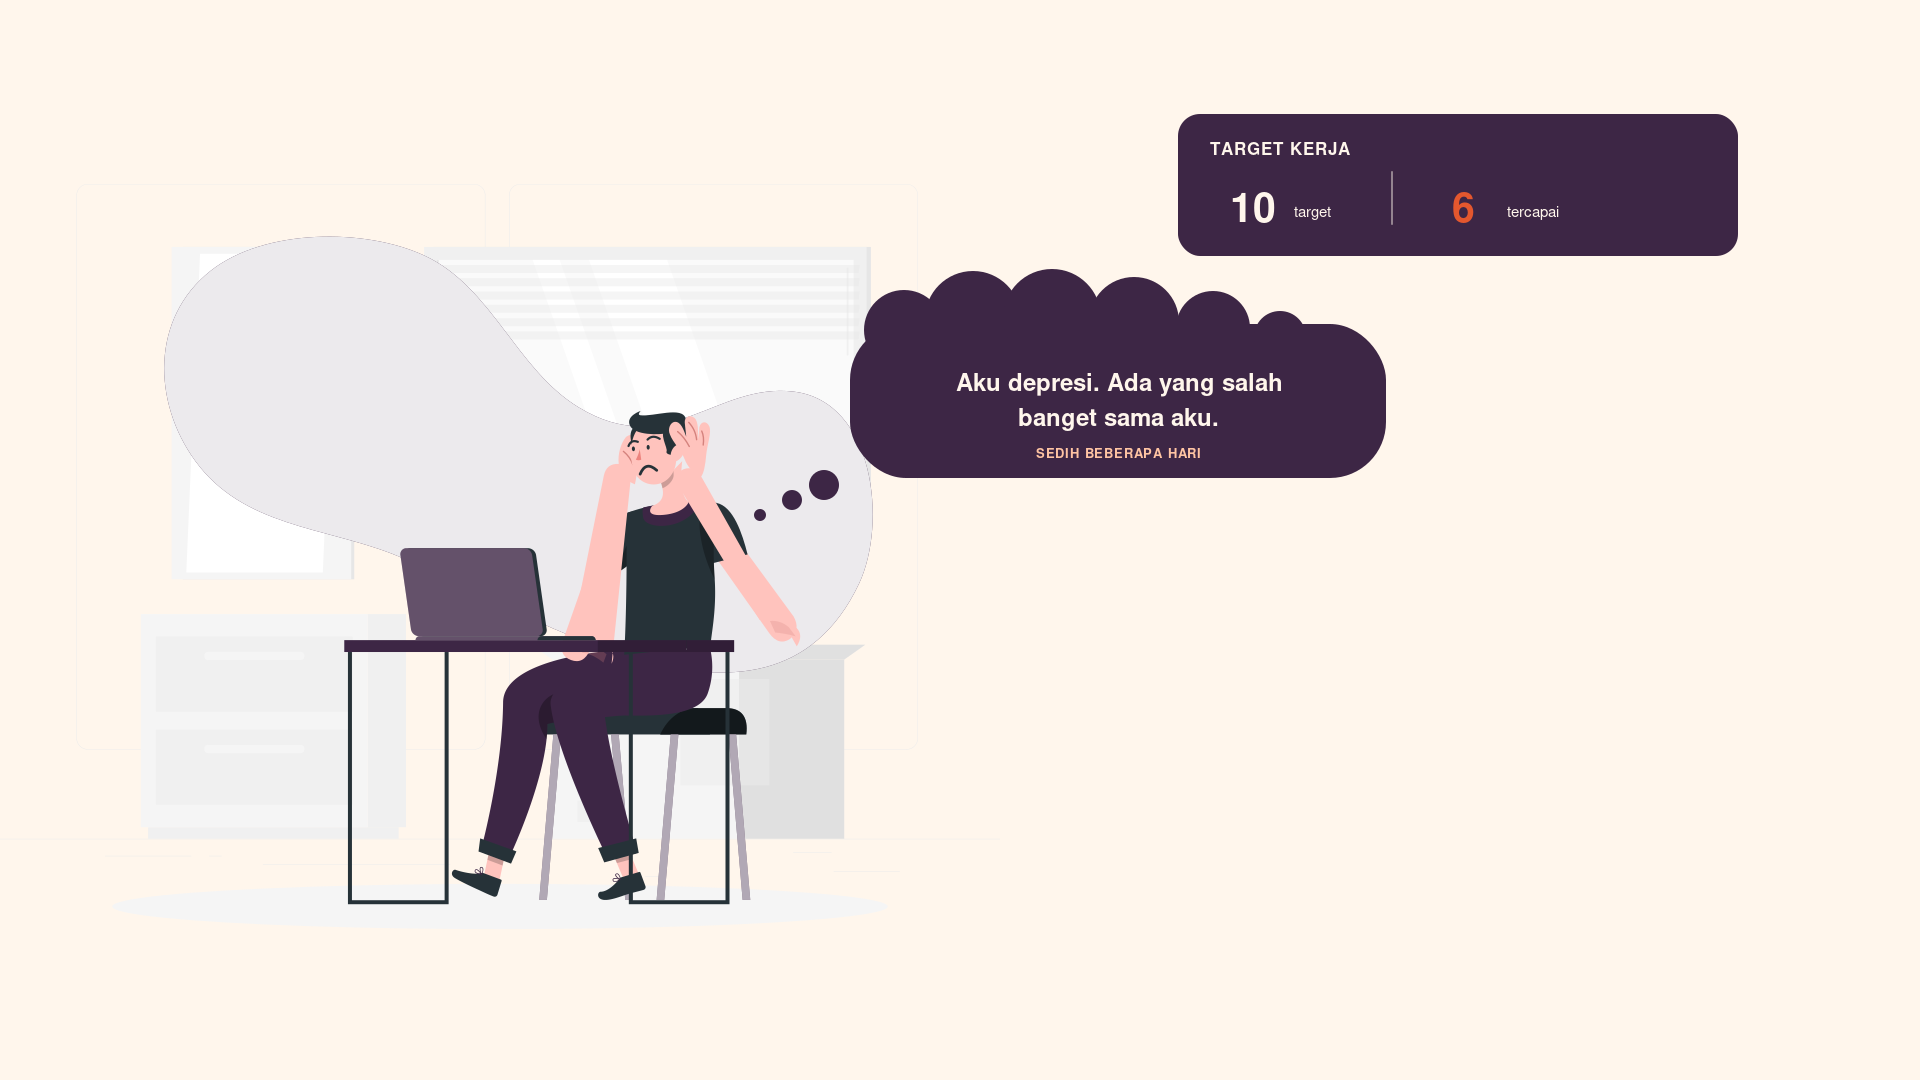
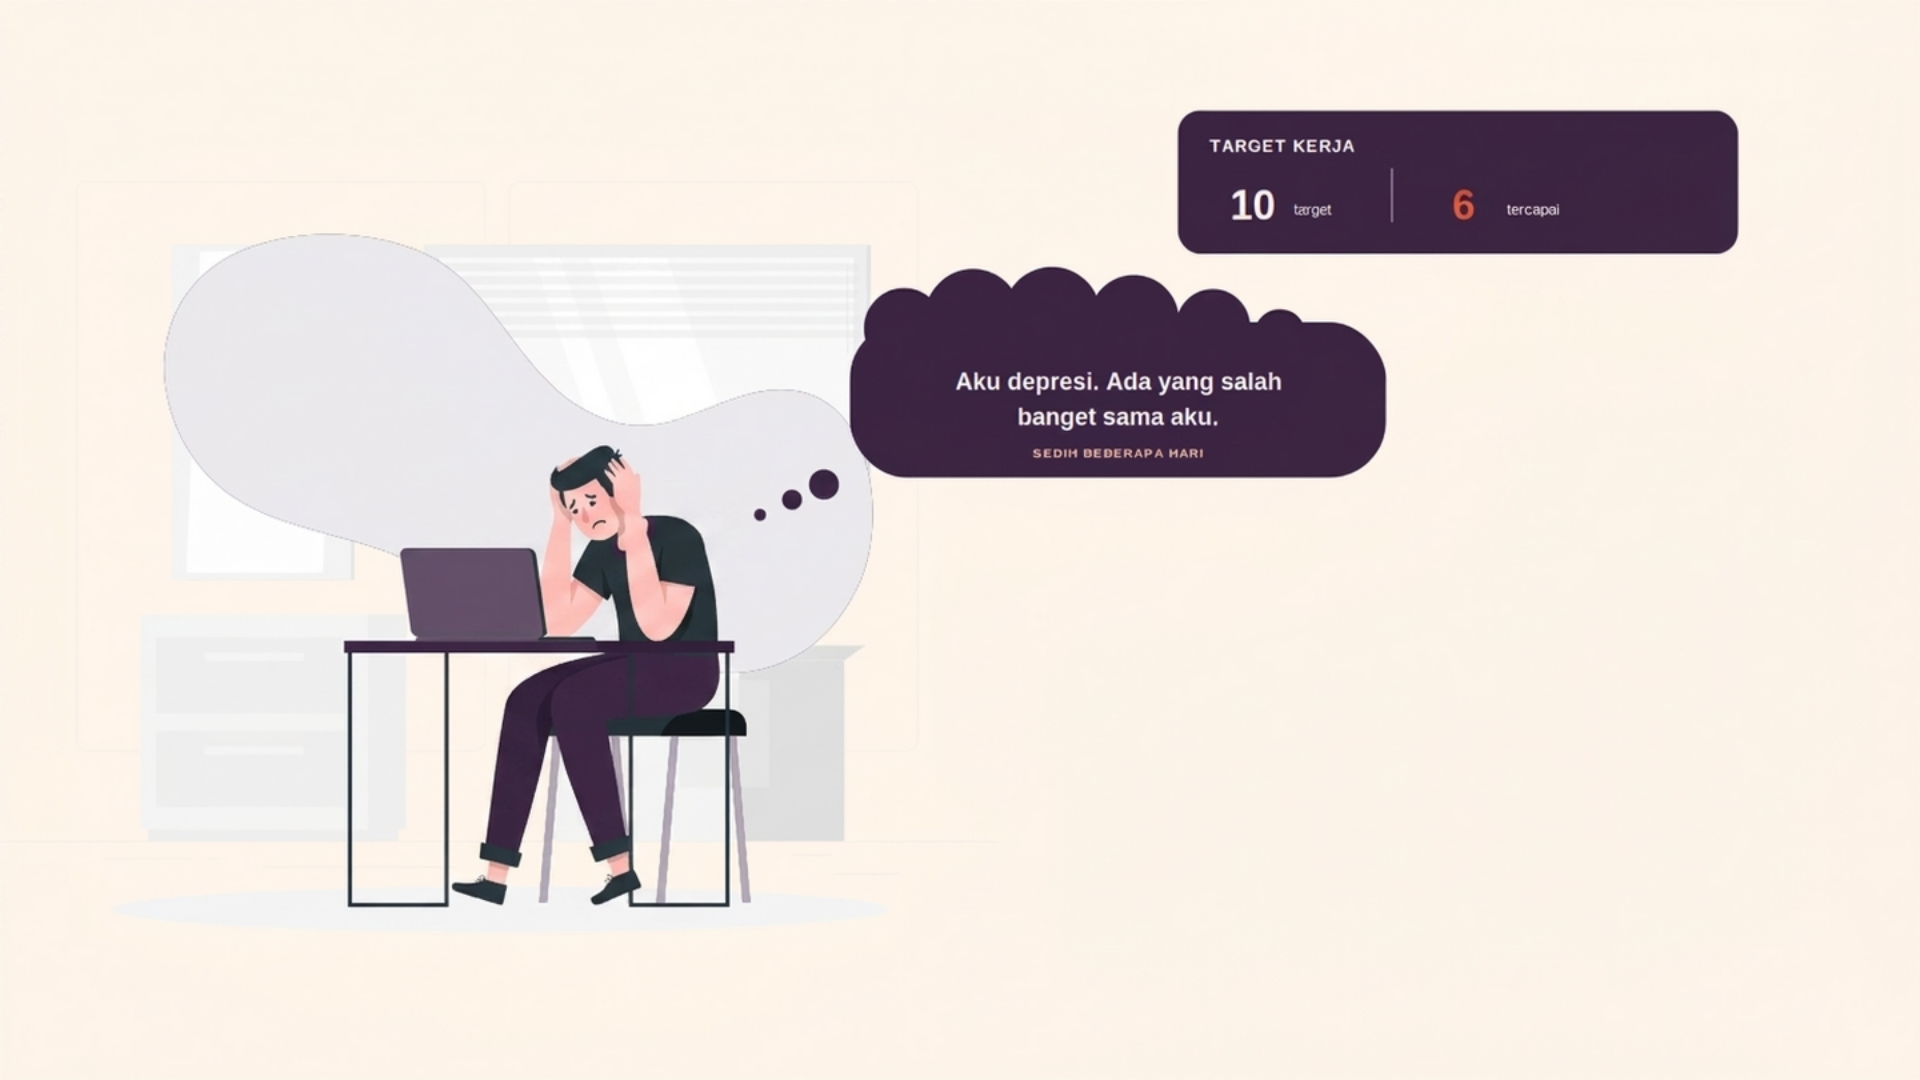
Restore original Agy Scene 4A pose

diff --git a/storyboard/index.html b/storyboard/index.html
@@ -37,7 +37,7 @@
         </article>
 <article class="board-row">
           <header class="row-meta"><span class="scene-number">04</span><span class="time">01:55–02:35</span><h2>Why Does It Matter?</h2><p>Satu cerita sebab-akibat Raka dan Dina bergerak dalam lima beat: Raka salah memahami emosinya → konflik saat rapat → ia menyimpulkan Dina narsistik tanpa bukti → sebuah post menyebarkan stigma dan Raka mengeluarkan Dina dari grup → Dina sendirian tanpa Raka, ditutup teks layar.</p></header>
-          <div class="row-frame"><div class="case-frame-grid"><section class="frame-card"><div class="frame-label"><b>4A · Raka Mislabels His Own Sadness</b><span>01:55–02:07 · 12s</span></div><a href="scenes/scene-4a-self-misunderstanding.svg" target="_blank" aria-label="Open editable SVG for 4A"><img src="scenes/scene-4a-self-misunderstanding.svg" alt="Raka Mislabels His Own Sadness animation frame"></a><div class="file-links"><a href="scenes/scene-4a-self-misunderstanding.svg" download>Download editable SVG</a><a href="previews/scene-4a-self-misunderstanding.png" download>Download PNG preview</a><a href="previews/scene-4a-agy-vs-svg.png" target="_blank" rel="noreferrer">Compare pose reference &amp; rig</a></div></section><section class="frame-card"><div class="frame-label"><b>4B · Misjudgment Becomes Conflict</b><span>02:07–02:12 · 5s</span></div><a href="scenes/scene-4b-conflict-in-the-meeting.svg" target="_blank" aria-label="Open editable SVG for 4B"><img src="scenes/scene-4b-conflict-in-the-meeting.svg" alt="Misjudgment Becomes Conflict animation frame"></a><div class="file-links"><a href="scenes/scene-4b-conflict-in-the-meeting.svg" download>Download editable SVG</a><a href="previews/scene-4b-conflict-in-the-meeting.png" download>Download PNG preview</a></div></section><section class="frame-card"><div class="frame-label"><b>4B2 · One Disagreement Becomes a Label</b><span>02:12–02:17 · 5s</span></div><a href="scenes/scene-4b2-narcissistic-label.svg" target="_blank" aria-label="Open editable SVG for 4B2"><img src="scenes/scene-4b2-narcissistic-label.svg" alt="One Disagreement Becomes a Label animation frame"></a><div class="file-links"><a href="scenes/scene-4b2-narcissistic-label.svg" download>Download editable SVG</a><a href="previews/scene-4b2-narcissistic-label.png" download>Download PNG preview</a></div></section><section class="frame-card"><div class="frame-label"><b>4C · Stigma Spreads Through the Group</b><span>02:17–02:27 · 10s</span></div><a href="scenes/scene-4c-stigma-and-removal.svg" target="_blank" aria-label="Open editable SVG for 4C"><img src="scenes/scene-4c-stigma-and-removal.svg" alt="Stigma Spreads Through the Group animation frame"></a><div class="file-links"><a href="scenes/scene-4c-stigma-and-removal.svg" download>Download editable SVG</a><a href="previews/scene-4c-stigma-and-removal.png" download>Download PNG preview</a></div></section><section class="frame-card"><div class="frame-label"><b>4D · Dina Alone · Closing On-Screen Text</b><span>02:27–02:35 · 8s</span></div><a href="scenes/scene-4d-dina-alone-closing-text.svg" target="_blank" aria-label="Open editable SVG for 4D"><img src="scenes/scene-4d-dina-alone-closing-text.svg" alt="Dina Alone · Closing On-Screen Text animation frame"></a><div class="file-links"><a href="scenes/scene-4d-dina-alone-closing-text.svg" download>Download editable SVG</a><a href="previews/scene-4d-dina-alone-closing-text.png" download>Download PNG preview</a></div></section></div></div>
+          <div class="row-frame"><div class="case-frame-grid"><section class="frame-card"><div class="frame-label"><b>4A · Raka Mislabels His Own Sadness</b><span>01:55–02:07 · 12s</span></div><a href="scenes/scene-4a-self-misunderstanding.svg" target="_blank" aria-label="Open editable SVG for 4A"><img src="scenes/scene-4a-self-misunderstanding.svg" alt="Raka Mislabels His Own Sadness animation frame"></a><div class="file-links"><a href="scenes/scene-4a-self-misunderstanding.svg" download>Download editable SVG</a><a href="previews/scene-4a-self-misunderstanding.png" download>Download PNG preview</a><a href="previews/scene-4a-agy-pose-reference.png" target="_blank" rel="noreferrer">Original Agy pose reference</a></div></section><section class="frame-card"><div class="frame-label"><b>4B · Misjudgment Becomes Conflict</b><span>02:07–02:12 · 5s</span></div><a href="scenes/scene-4b-conflict-in-the-meeting.svg" target="_blank" aria-label="Open editable SVG for 4B"><img src="scenes/scene-4b-conflict-in-the-meeting.svg" alt="Misjudgment Becomes Conflict animation frame"></a><div class="file-links"><a href="scenes/scene-4b-conflict-in-the-meeting.svg" download>Download editable SVG</a><a href="previews/scene-4b-conflict-in-the-meeting.png" download>Download PNG preview</a></div></section><section class="frame-card"><div class="frame-label"><b>4B2 · One Disagreement Becomes a Label</b><span>02:12–02:17 · 5s</span></div><a href="scenes/scene-4b2-narcissistic-label.svg" target="_blank" aria-label="Open editable SVG for 4B2"><img src="scenes/scene-4b2-narcissistic-label.svg" alt="One Disagreement Becomes a Label animation frame"></a><div class="file-links"><a href="scenes/scene-4b2-narcissistic-label.svg" download>Download editable SVG</a><a href="previews/scene-4b2-narcissistic-label.png" download>Download PNG preview</a></div></section><section class="frame-card"><div class="frame-label"><b>4C · Stigma Spreads Through the Group</b><span>02:17–02:27 · 10s</span></div><a href="scenes/scene-4c-stigma-and-removal.svg" target="_blank" aria-label="Open editable SVG for 4C"><img src="scenes/scene-4c-stigma-and-removal.svg" alt="Stigma Spreads Through the Group animation frame"></a><div class="file-links"><a href="scenes/scene-4c-stigma-and-removal.svg" download>Download editable SVG</a><a href="previews/scene-4c-stigma-and-removal.png" download>Download PNG preview</a></div></section><section class="frame-card"><div class="frame-label"><b>4D · Dina Alone · Closing On-Screen Text</b><span>02:27–02:35 · 8s</span></div><a href="scenes/scene-4d-dina-alone-closing-text.svg" target="_blank" aria-label="Open editable SVG for 4D"><img src="scenes/scene-4d-dina-alone-closing-text.svg" alt="Dina Alone · Closing On-Screen Text animation frame"></a><div class="file-links"><a href="scenes/scene-4d-dina-alone-closing-text.svg" download>Download editable SVG</a><a href="previews/scene-4d-dina-alone-closing-text.png" download>Download PNG preview</a></div></section></div></div>
           <dl class="row-notes"><div><dt>On-screen text</dt><dd>4A · Aku depresi. Ada yang salah banget sama aku.<br>4B · Raka: Kamu selalu bikin aku merasa salah! · Dina: Aku cuma kasih masukan. Jangan baper terus, deh.<br>4B2 · Dia narsistik. · Cap: NARSISTIK.<br>4C · Hati-hati sama Dina, dia narsistik. · Biar yang lain aman. · Dina dikeluarkan dari grup; post menyebar menjadi notifikasi.<br>4D · Don't reduce people to labels.</dd></div><div><dt>Motion / camera</dt><dd>Transisi objek tetap mengalir: bubble self-label menjadi awan pikiran dan debat → berubah menjadi cap NARSISTIK → cap menyebar sebagai post dan rantai notifikasi → berakhir pada Dina sendirian dengan bubble ‘...’ dan teks layar. Raka tidak muncul di frame 4D.</dd></div><div><dt>Script / voice-over</dt><dd><strong>4A · 01:55–02:07 · 12 detik</strong><br>Now, why should we care? First, misusing psychological terms can make us misunderstand our own emotions. Normal feelings like sadness, fear, or disappointment can feel like something is seriously wrong with us.<br><strong>4B · 02:07–02:12 · 5 detik</strong><br>Second, it can create unnecessary conflict.<br><strong>4B2 · 02:12–02:17 · 5 detik</strong><br>Imagine labeling someone as narcissistic just because they disagree with you.<br><strong>4C · 02:17–02:27 · 10 detik</strong><br>And third, it can reinforce stigma. Mental health conditions are complex experiences, not simply labels we can attach to someone based on one behavior.<br><strong>4D · 02:27–02:35 · 8 detik</strong><br>Remember, psychology is more than just a collection of viral terms. It is a scientific discipline that requires context, evidence, and careful understanding.</dd></div><div><dt>Assets & roles</dt><dd>4A · Karakter menggunakan path vektor sumber Co-workers · Rafiki; Dina dihilangkan dan tidak ada gelas atau ponsel. Raka duduk membungkuk dengan kepala turun, kedua tangan di pelipis, dan ekspresi sedih. Grup rig SVG: raka-torso, raka-neck, raka-head, lengan atas, lengan bawah, tangan, serta kaki kiri/kanan. Pivot dan hubungan skeleton dicatat pada atribut data di viewBox rig 500×500. Gambar Agy hanya menjadi referensi pose.<br>4B dan 4B2 · Co-workers · Rafiki: karakter Raka dan Dina di rapat serta cap NARSISTIK. Bubble dialog 4B tanpa panah/garis penghubung; cap tetap kesimpulan Raka, bukan diagnosis.<br>4C · Post peringatan dan rantai notifikasi dibuat sebagai layer SVG editable di sisi kanan komposisi.<br>4D · Co-workers · Rafiki Dina tetap menjadi satu-satunya karakter; wash cream, area meja yang ditutup, bubble ‘...’, notifikasi tak terjawab, bayangan label memudar, dan teks penutup adalah layer komposisi terpisah.</dd><p class="asset-sources"><a href="https://storyset.com/illustration/co-workers/rafiki" target="_blank" rel="noreferrer">Co-workers · Rafiki ↗</a></p></div></dl>
         </article>
 <article class="board-row">
